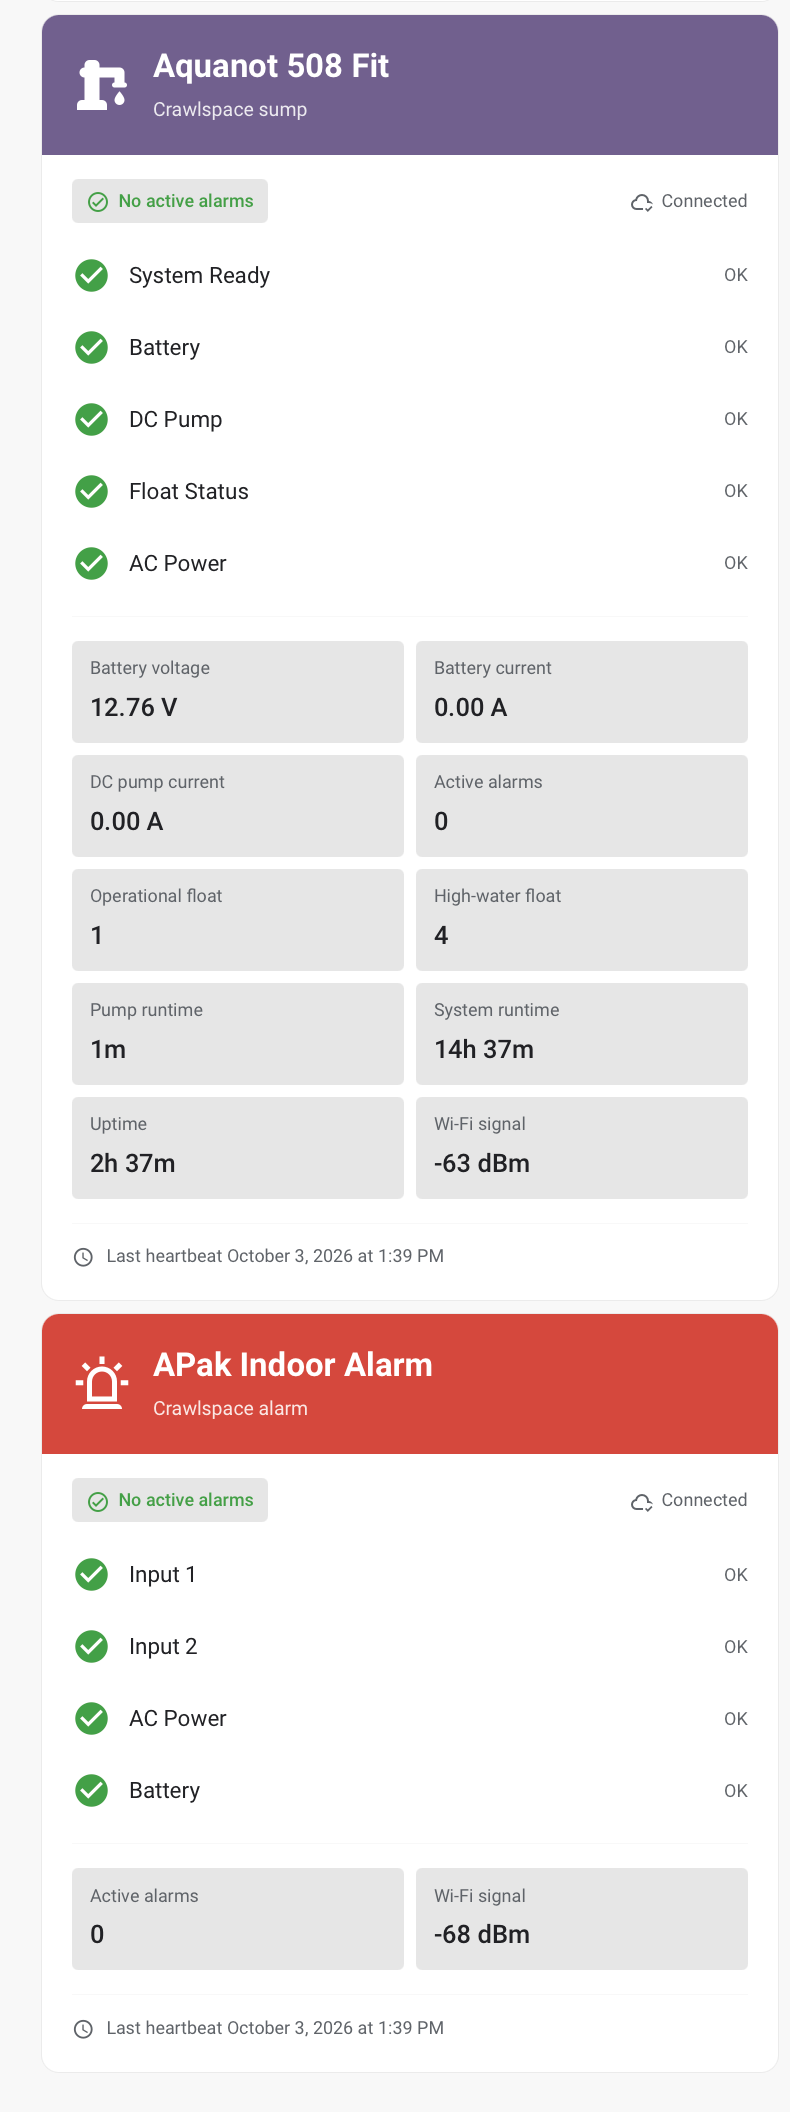
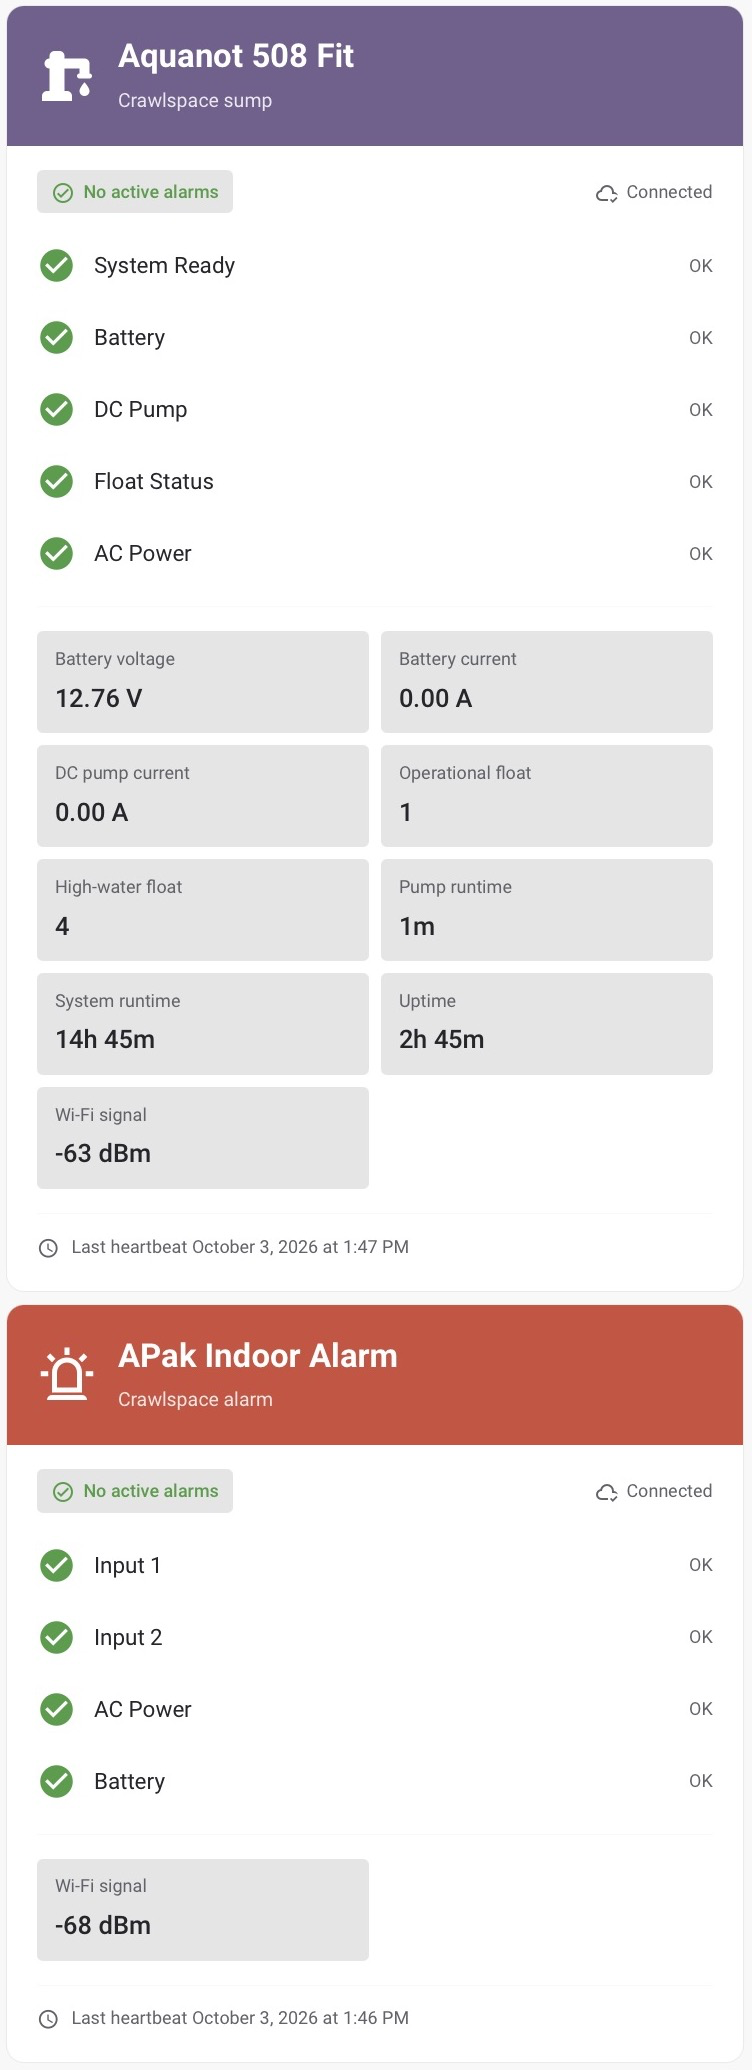
Document live v0.1.0 validation with actual card screenshots

Changed region(s): [[0.0, 0.0, 1.0, 0.9894], [0.7952, 0.0618, 0.9481, 0.1855], [0.9176, 0.2473, 0.9481, 0.2783]]

diff --git a/README.md b/README.md
@@ -6,7 +6,7 @@ Home Assistant dashboard cards for **Aquanot 508 Fit**, **APak**, and generic su
 
 ## Live screenshots
 
-These are actual Home Assistant cards connected to a Zoeller 508 and APak. They are not mockups. The development demo uses synthetic data and is kept separately under `demo/`.
+These are actual Home Assistant cards connected to a Zoeller 508 and APak. Captured from the installed **v0.1.0** card on October 3, 2026; the image is cropped to the cards only, with no alteration to their content. The development demo uses synthetic data and is kept separately under `demo/`.
 
 <img src="docs/home-assistant-live.png" alt="Actual 508 and APak cards running in Home Assistant" width="520">
 
@@ -48,7 +48,7 @@ The 508 preset needs the corrected 508 status mappings and telemetry from a comp
 5. Open **Settings → Dashboards → three-dot menu → Resources**. Confirm `/hacsfiles/zcontrol-card/zcontrol-card.js` is registered as **JavaScript module**. Enable **Advanced mode** in your HA profile if Resources is hidden. If HACS did not add it, add that URL yourself with type JavaScript module.
 6. Add and configure a card using the instructions below.
 
-The implementation is on **`main`**. HACS normally installs a numbered release for repeatable updates; its card asset is built from the published code. To test the current branch directly, use **Need a different version? → main** in HACS. `main` is available, but can include changes newer than a numbered release. This is a custom repository, not a HACS default-store listing.
+The implementation is on **`main`**. HACS normally installs a numbered release for repeatable updates; its card asset matches the published code on `main`. To test the current branch directly, use **Need a different version? → main** in HACS. `main` is available, but can include changes newer than a numbered release. This is a custom repository, not a HACS default-store listing.
 
 ## Install manually from main
 
